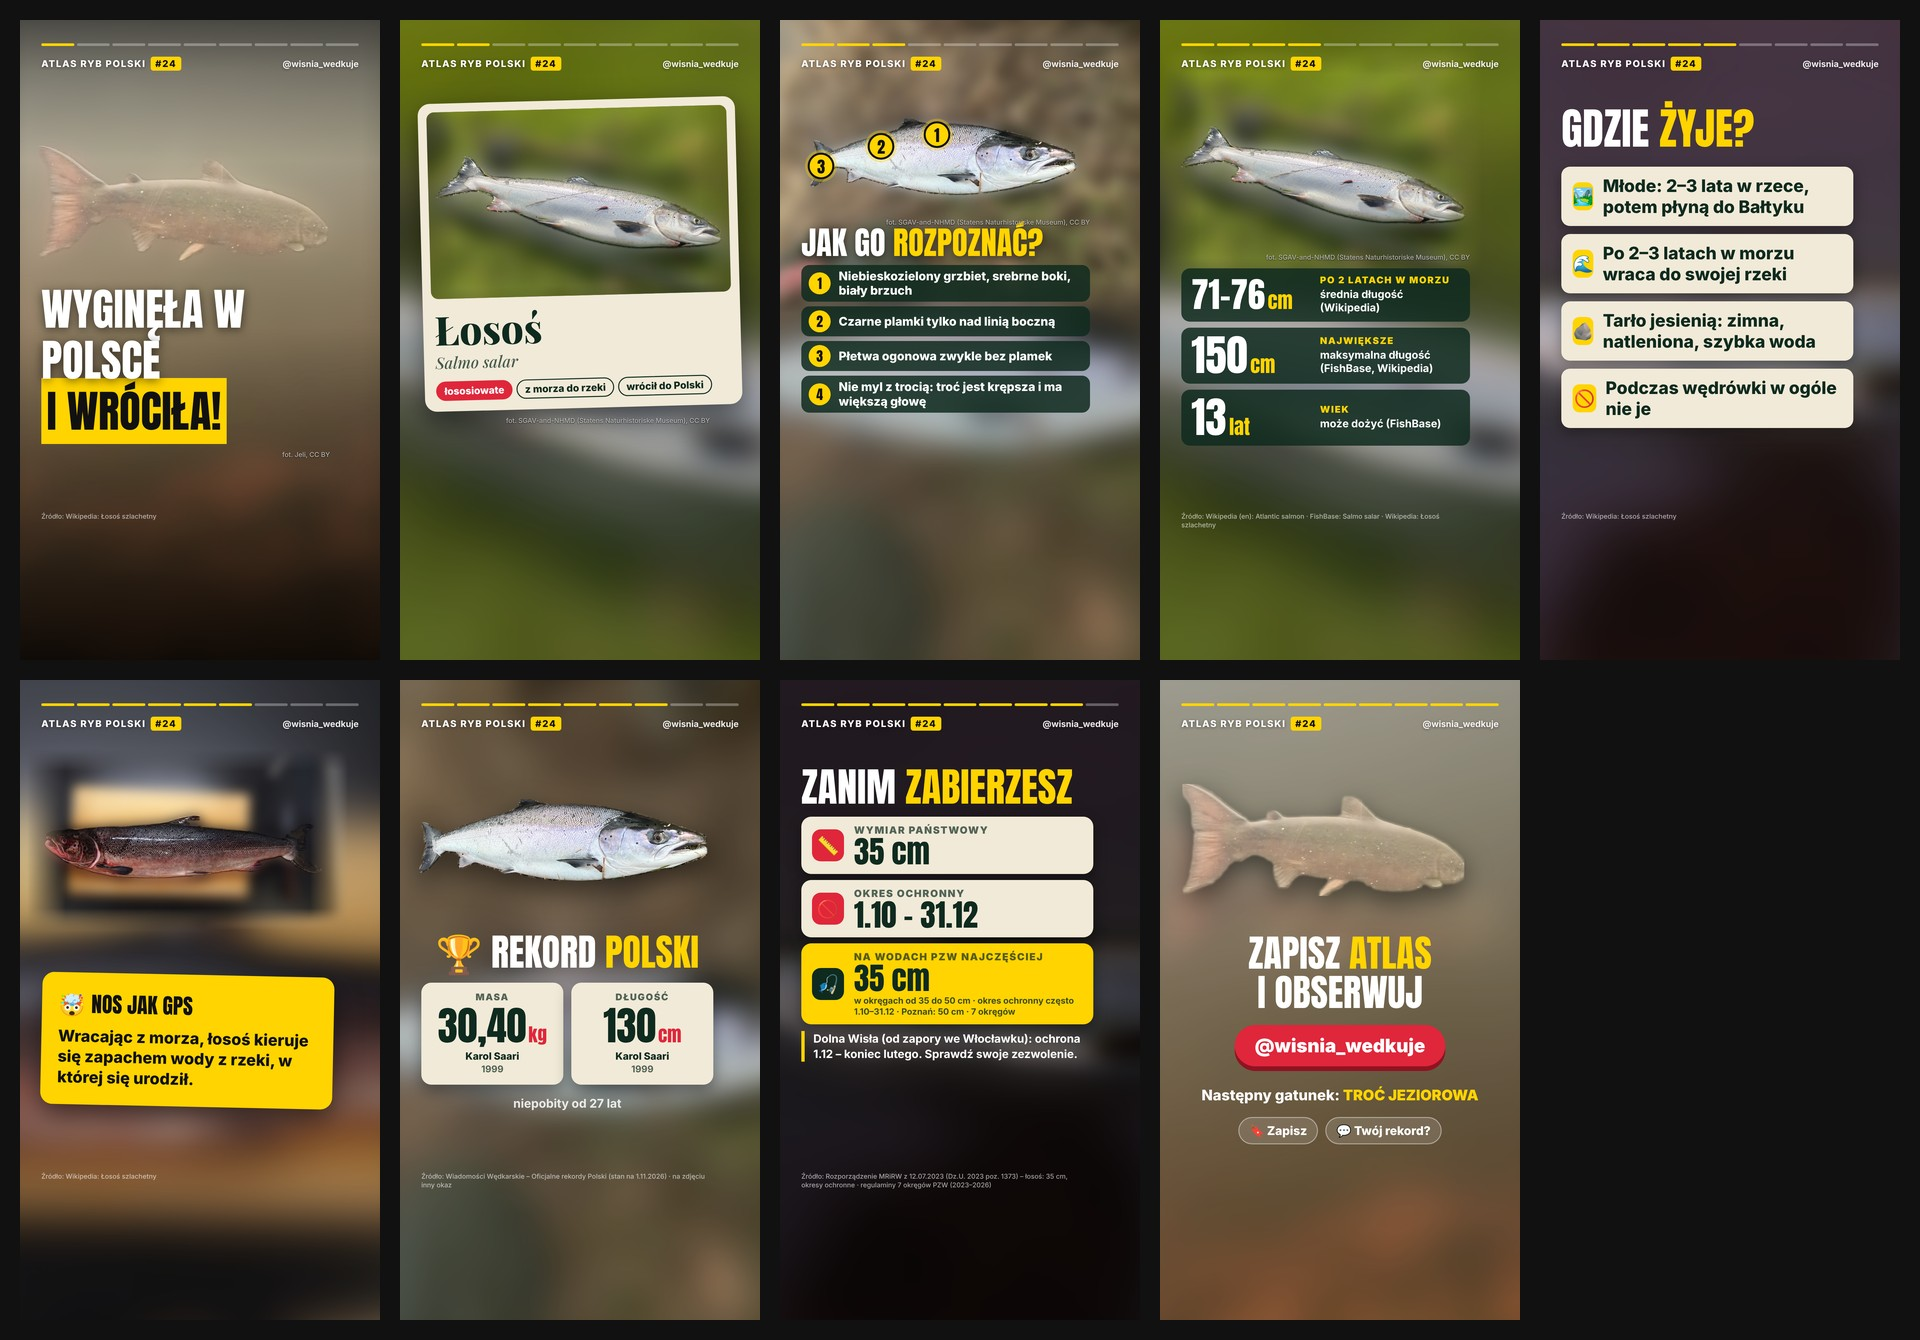
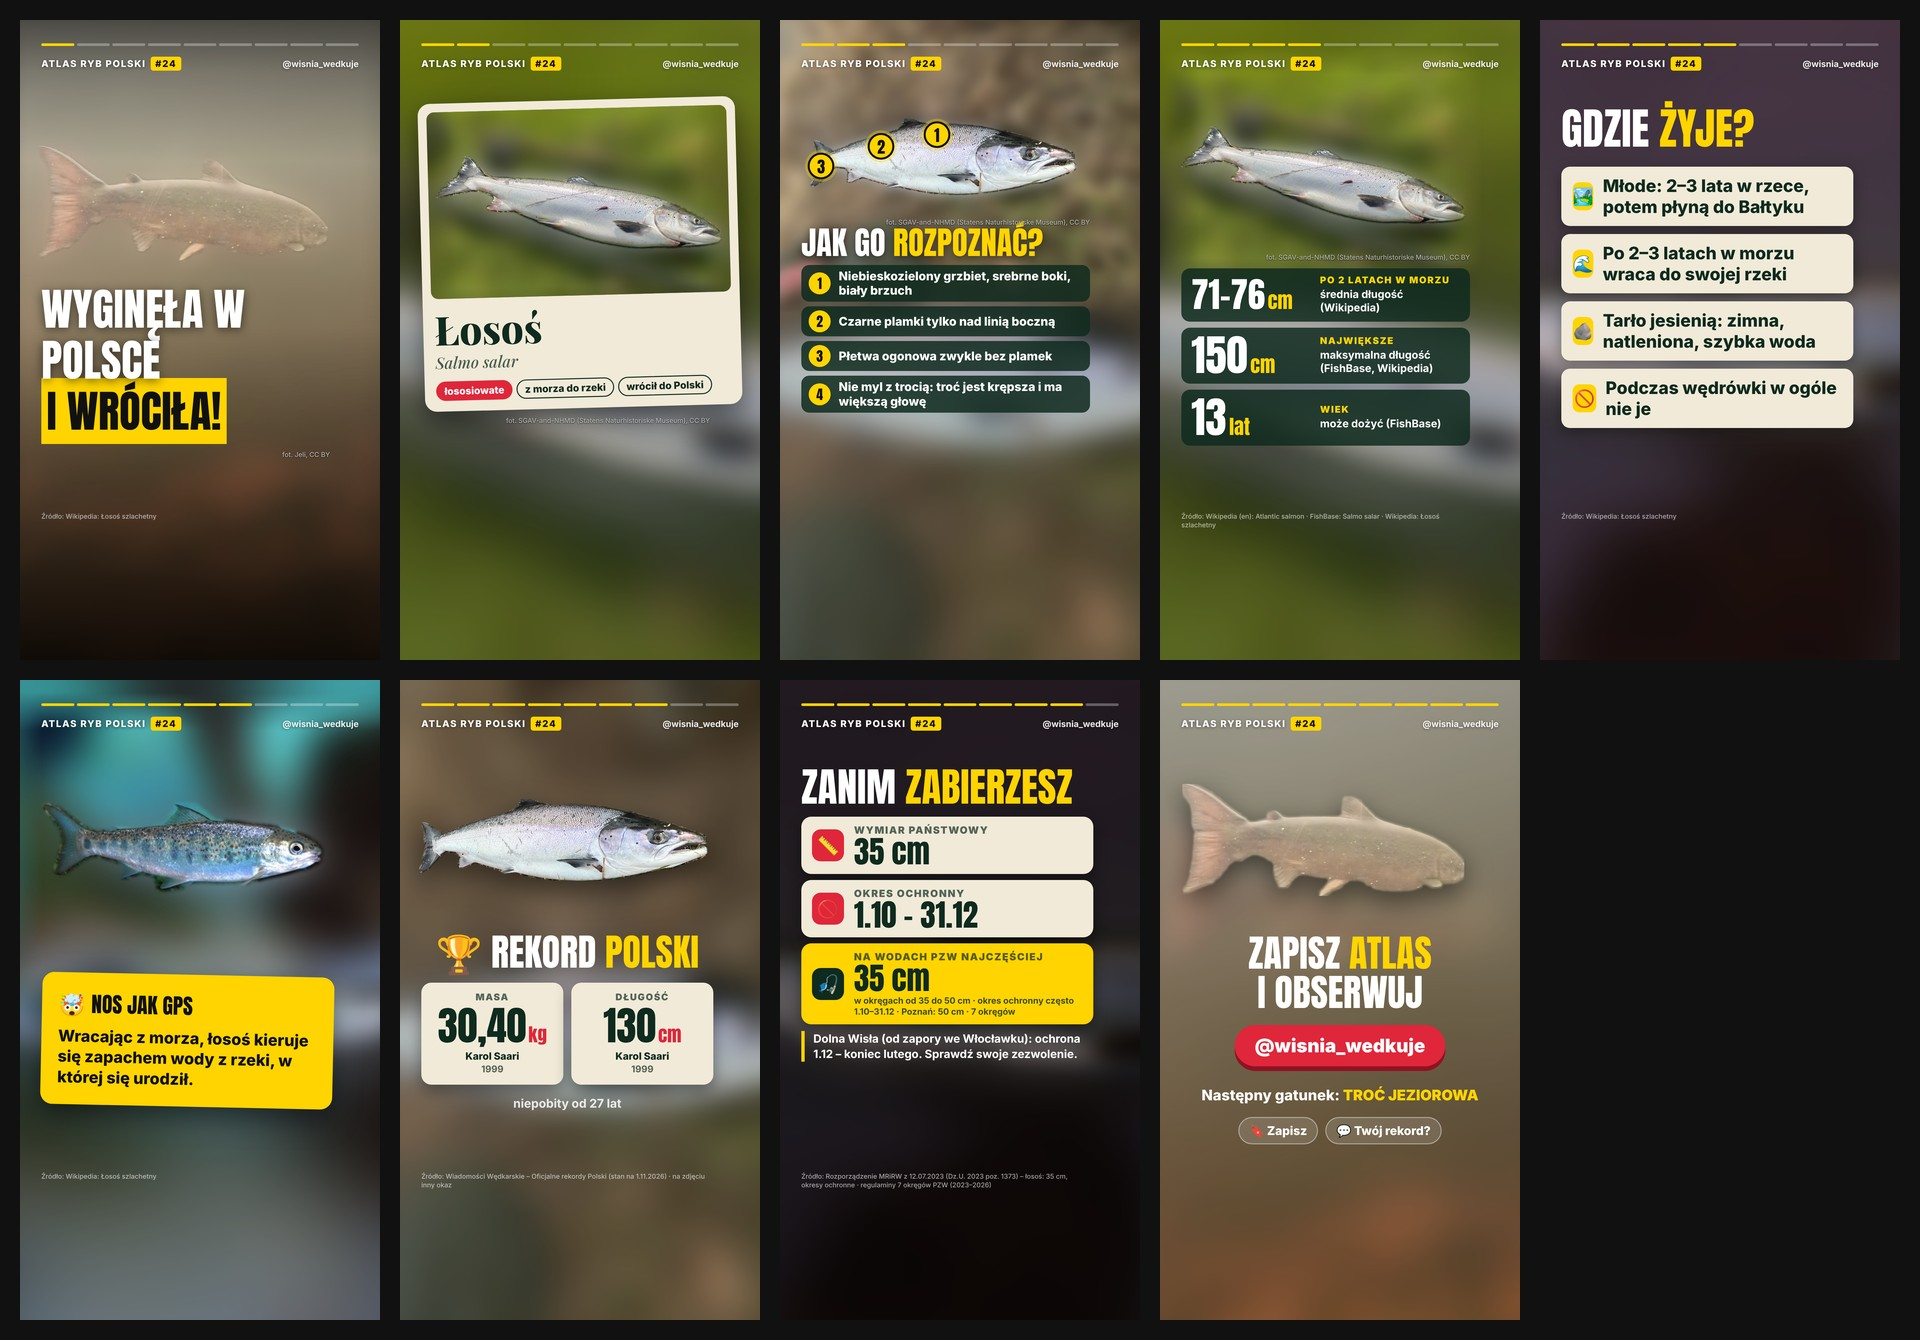
Łosoś: zamiast ryby na desce do krojenia żywy łosoś w akwarium; zasada o zdjęciach kuchennych
Claude-Session: https://claude.ai/code/session_01YFDAx1LD8sTfHqEDUSbp2L

Changed region(s): [[0.0, 0.4896, 0.2188, 1.0]]

diff --git a/CLAUDE.md b/CLAUDE.md
@@ -38,6 +38,8 @@
 - **Wybieraj zdjęcia, na których ryby nic nie zasłania** – bez dłoni na rybie, trawy/patyków/podbieraka na ciele,
   gałęzi przed rybą. Najlepiej ryba leżąca w całości na czystym tle (deska, kamienie, mata, woda). Zdjęcia „średnie”
   (ryba w dłoniach, przysłonięta) odrzucaj, nawet jeśli trzeba przejrzeć więcej wyników iNaturalist.
+  Odrzucaj też zdjęcia „kuchenne” (deska do krojenia, noże, lada sklepowa, lód w sklepie) – atlas pokazuje rybę
+  w naturze albo na łowisku; najlepiej żywą ryba pod wodą lub w akwarium (decyzja użytkownika).
 - Profil: @wisnia_wedkuje. Do każdego odcinka opis posta w `opisy/<gatunek>.md` i MP4 w `wideo/`.
 - **Opis posta**: numer odcinka bez znaku `#` (np. „ATLAS RYB POLSKI 08 – PŁOĆ”), zawsze **dokładnie 5 hashtagów** (te same na IG i TikTok).
 - **Przepisy w rolce: dwa poziomy.** (1) wymiar/okres z rozporządzenia (państwowy), (2) typowy wymiar na wodach PZW
